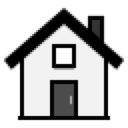
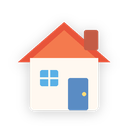
收藏特殊目录改用独立彩色图标
iconForFile 对桌面、文稿、下载等返回的是蓝文件夹加角标。侧边栏这些已知目录改用内置彩色字形；自定义收藏和位置卷仍用系统图标，列表不变。

diff --git a/src/components/Sidebar.jsx b/src/components/Sidebar.jsx
@@ -29,14 +29,20 @@ function SystemIcon({ src, template }) {
   return <img className={`sb-system-icon ${kind}`} src={src} width={16} height={16} alt="" draggable={false} />
 }
 
+// Finder / QSpace 侧边栏用独立彩色字形。iconForFile 对 Desktop、Downloads 等
+// 返回的是蓝文件夹加角标，不能用于这些已知目录。自定义收藏才用系统图标。
+function bundledFavoriteSrc(favorite) {
+  if (favorite?.name && Object.hasOwn(favoriteIcons, favorite.name)) return favoriteIcons[favorite.name]
+  const tail = String(favorite?.path || '').split('/').filter(Boolean).pop()
+  if (tail && Object.hasOwn(favoriteIcons, tail)) return favoriteIcons[tail]
+  return null
+}
+
 function FavoriteIcon({ favorite, native }) {
+  const src = bundledFavoriteSrc(favorite)
+  if (src) return <SystemIcon src={src} template={false} />
   if (native?.icon) return <SystemIcon src={native.icon} template={!!native.template} />
-  const tail = favorite.path.split('/').filter(Boolean).pop()
-  const src = Object.hasOwn(favoriteIcons, favorite.name) ? favoriteIcons[favorite.name]
-    : Object.hasOwn(favoriteIcons, tail) ? favoriteIcons[tail] : null
-  return src
-    ? <SystemIcon src={src} template />
-    : <IconFolder size={15} />
+  return <IconFolder size={15} />
 }
 
 const trace = (m) => invoke('log_debug', { msg: m }).catch(() => {})
@@ -158,7 +164,8 @@ export default function Sidebar({
     }
   }, [tick])
 
-  // 主目录、收藏、卷都走 NSWorkspace。已取到的路径不再请求；失败则留给模板图 / IconDrive。
+  // 列表、自定义收藏和卷需要 iconForFile（特殊目录在列表里仍是文件夹角标）。
+  // 侧边栏展示时，已知特殊目录改用内置彩色字形，不读这份缓存。
   useEffect(() => {
     const paths = []
     if (home) paths.push(home)
@@ -189,11 +196,9 @@ export default function Sidebar({
     <div className="sidebar" ref={ref}>
       <div className="sb-title">个人收藏</div>
       <FavItem
-        icon={getCachedIcon(home)?.icon
-          ? <SystemIcon src={getCachedIcon(home).icon} template={!!getCachedIcon(home).template} />
-          : home
-            ? <SystemIcon src={homeIcon} template />
-            : <IconHouse size={15} />}
+        icon={home
+          ? <SystemIcon src={homeIcon} template={false} />
+          : <IconHouse size={15} />}
         label="主目录"
         path={home}
         removable={false}

diff --git a/src/styles.css b/src/styles.css
@@ -114,7 +114,7 @@
     --dialog-shadow: 0 4px 12px rgba(0, 0, 0, 0.3), 0 20px 56px rgba(0, 0, 0, 0.5);
   }
 
-  /* 只反色内置的单色模板图。NSWorkspace 彩色图标带 .sb-color-icon，保持原色。 */
+  /* 只反色单色模板图。内置彩色侧边栏图和 NSWorkspace 彩色图标带 .sb-color-icon，保持原色。 */
   .sb-system-icon.sb-template-icon { filter: invert(0.88) hue-rotate(180deg); }
 }
 

diff --git a/src-tauri/src/native_icons.rs b/src-tauri/src/native_icons.rs
@@ -1,5 +1,7 @@
 //! 系统图标：macOS 上用 NSWorkspace `iconForFile:` 栅格化成 PNG data URL。
-//! 侧边栏、文件列表和搜索共用。非 macOS 返回空图标，前端用模板图或小占位图标。
+//! 文件列表、搜索、位置卷和自定义收藏共用。
+//! 侧边栏里的主目录、桌面、文稿等已知目录不用这套图（那是蓝文件夹加角标），
+//! 前端改用内置的独立彩色字形。非 macOS 返回空图标。
 
 use serde::Serialize;
 use tauri::AppHandle;
